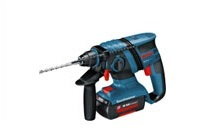
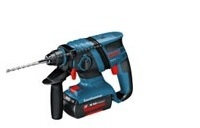
4

Changed region(s): [[0.03, 0.2188, 0.78, 0.9688]]

diff --git a/index.html b/index.html
@@ -120,7 +120,7 @@
                    <a class="btn" href="#">15500 Р.</a>
                 </li>
                 <li>
-                   <img src="img/drill3.jpg" width="218" height="128" alt="Перфоратор bfg6000">
+                   <img src="img/drill3.jpg" width="217" height="128" alt="Перфоратор bfg6000">
                    <p>Перфоратор BOSCH BFG 6000</p>
                    <p><del>30500 Р.</del></p>
                    <a class="btn" href="#">25500 Р.</a>

diff --git a/css/style.css b/css/style.css
@@ -491,11 +491,18 @@ a.btn-all:hover {
     margin-right: auto;
 }
 .products img {
-    position: relative;
-    top: 20px;
+    margin-bottom: 32px;
 }
 .products li:hover {
     box-shadow: 0 0 25px #b8bbc2;
+}
+.products li:nth-child(2) img {
+    margin-top: 7px;
+    margin-bottom: 25px;
+}
+.products li:nth-child(3) img {
+    margin-top: 2px;
+    margin-right: 1px;
 }
 .btn {
     width: 119px;
